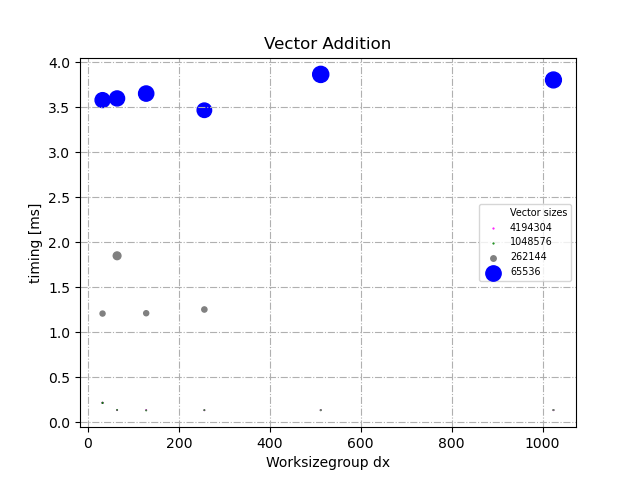
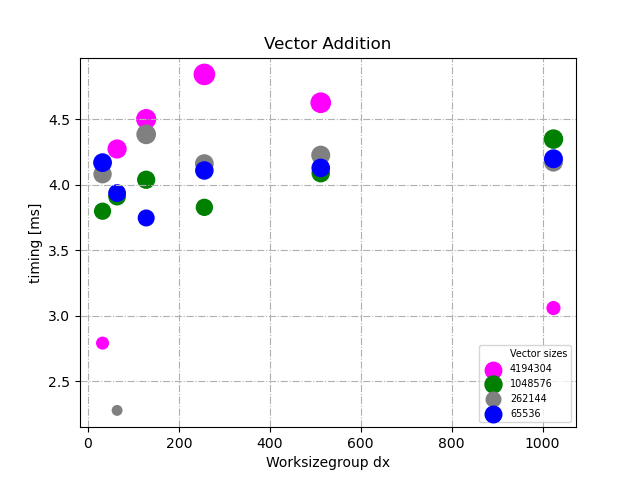
exclude externel libs from analysis

diff --git a/Assignment2/src/main2.cpp b/Assignment2/src/main2.cpp
@@ -61,7 +61,7 @@ int main()
 
             };
 
-            A2Task1SolutionInterleaved interleavedSolution(app, 128);
+            /*A2Task1SolutionInterleaved interleavedSolution(app, 128);
             evaluateTask1Solution(&interleavedSolution, "Interleaved");
 
             A2Task1SolutionSequential sequentialSolution(app, 128);
@@ -74,7 +74,7 @@ int main()
             evaluateTask1Solution(&kernelDecompositionUnrollSolution, "KernelDecomposition Unroll");
 
             A2Task1SolutionKernelDecomposition kernelDecompositionAtomicSolution(app, 128, "shaders/A2Task1KernelDecompositionAtomic.comp.spv");
-            evaluateTask1Solution(&kernelDecompositionAtomicSolution, "KernelDecomposition Atomic");
+            evaluateTask1Solution(&kernelDecompositionAtomicSolution, "KernelDecomposition Atomic");*/
         }
 
         {
@@ -111,8 +111,8 @@ int main()
                 }
             };
 
-            A2Task2SolutioNaive naiveSolution(app, 128);
-            evaluateTask2Solution(&a2Task2, &naiveSolution, "Naive");
+            /*A2Task2SolutioNaive naiveSolution(app, 128);
+            evaluateTask2Solution(&a2Task2, &naiveSolution, "Naive");*/
 
             A2Task2SolutionKernelDecomposition kernelDecompositionSolutionLocal(app, sizeLocal);
             evaluateTask2Solution(&a2Task2Local, &kernelDecompositionSolutionLocal, "Kernel Decomposition Local");

diff --git a/Assignment1/src/main.cpp b/Assignment1/src/main.cpp
@@ -63,7 +63,7 @@ int main()
 
         csv_task2.newRow() << "dx" << "dy" << "dz" << "vecsize" << "timing naive" << "timing optimized";
 
-        unsigned int num_iterations_task2 = 10;
+        unsigned int num_iterations_task2 = 20;
         std::array<unsigned int, 3> workload_sizes_w_task2 = { 6400,4000,3200 };
         std::array<unsigned int, 3> workload_sizes_h = { 6400,4000,3200 };
         std::array<unsigned int, 3> dx_s_task2 = { 32,16,8 };

diff --git a/Assignment1/src/visualize.py b/Assignment1/src/visualize.py
@@ -51,8 +51,8 @@ def scale_points_for_matrix_rotation_analysis(scale, time_vec):
 
     for i in range(len(time_vec)):
         # some scaling magic... playing with linear and scaling factor ...
-        scaling = 1.2
-        linear_offset = 6
+        scaling = 0.5
+        linear_offset = 0
         scale.append([((float(tmp[0]) + linear_offset) * scaling)**2 for tmp in time_vec[i]])
 
     return scale    
